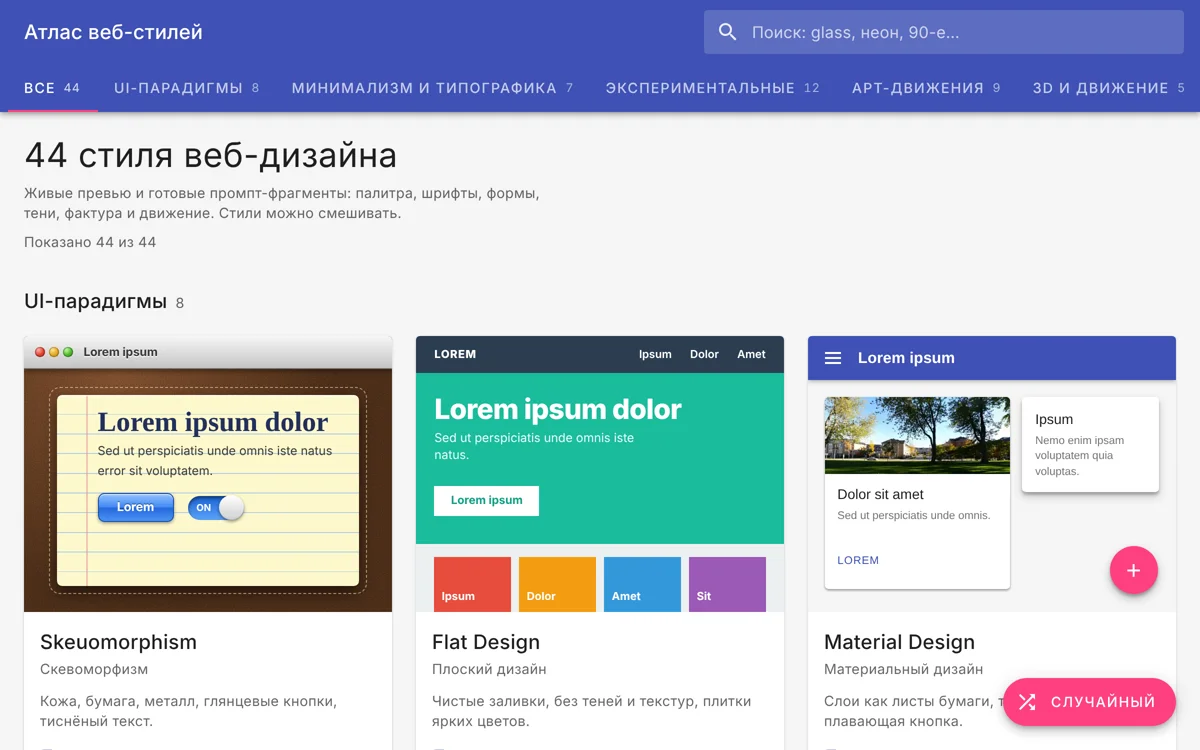
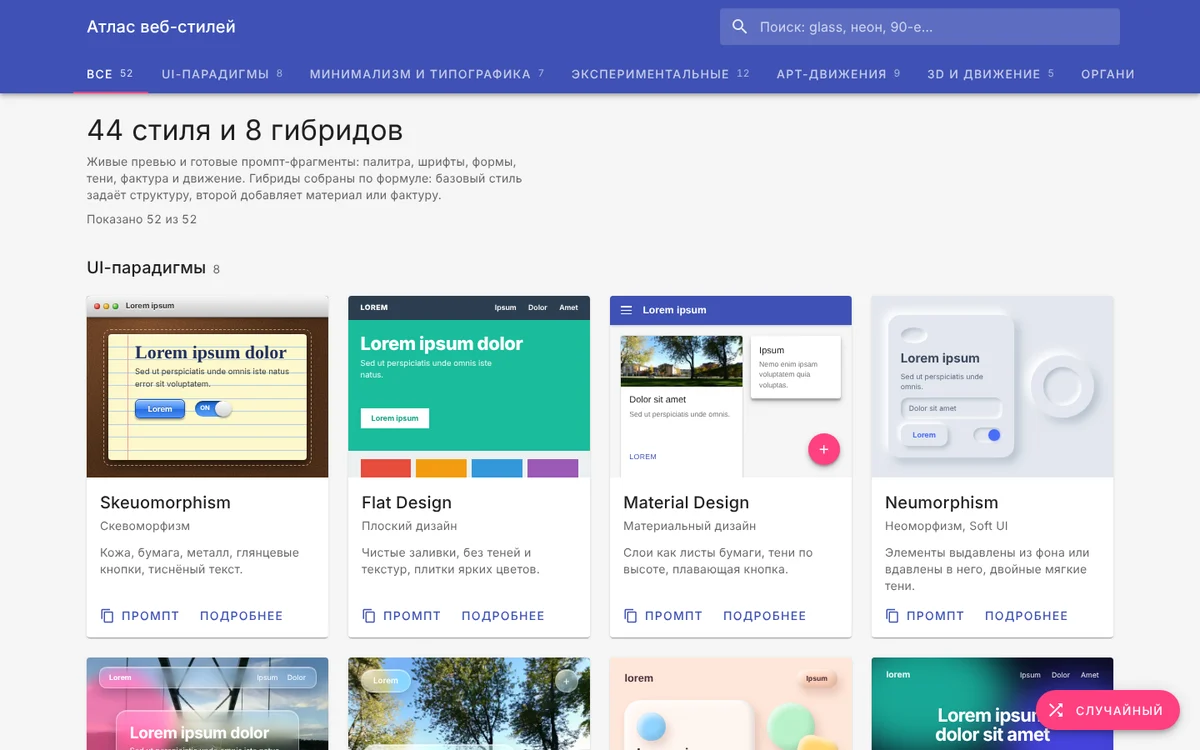
Refresh covers for Skill Index, Web Style Atlas and Roadkick
Claude-Session: https://claude.ai/code/session_01YCgoYJd29CPpN6KyZvRQFE

diff --git a/index.html b/index.html
@@ -89,7 +89,7 @@ canvas#gl.drag{cursor:grabbing}
 
 <script src="https://cdnjs.cloudflare.com/ajax/libs/three.js/r128/three.min.js"></script>
 <script>
-const PROJECTS = [{"name": "AI Risk Simulator", "img": "img/ai-risk.webp", "demo": "https://oz-the-magician.github.io/AI-Product-Risk-Simulator-Decision-Support-System-v3/", "code": "https://github.com/oz-the-magician/AI-Product-Risk-Simulator-Decision-Support-System-v3", "about": {"ru": "Симулятор решений по безопасности AI-продукта. Соберите два набора мер, сравните, что они делают с риском, пользователями и деньгами, и посмотрите, какое решение сколько дало.", "en": "A decision simulator for AI product safety. Build two sets of measures, compare what they do to risk, users and money, and see how much each decision contributed."}, "made": {"ru": "Monte Carlo, значения Шепли, граница Парето, пошаговый тур", "en": "Monte Carlo, Shapley values, Pareto frontier, guided tour"}, "cat": "eng"}, {"name": "Prompt Constructor", "img": "img/prompt-constructor.webp", "demo": "https://oz-the-magician.github.io/prompt-constructor/", "code": "https://github.com/oz-the-magician/prompt-constructor", "about": {"ru": "Конструктор промптов для текста, изображений, видео и кода. Собирает промпт из блоков и по ходу подсказывает, что его ослабляет: размытые слова, противоречия, отрицания, пропуски.", "en": "A prompt builder for text, image, video and code models. It assembles the prompt from blocks and points out what weakens it as you type: vague words, contradictions, negations, gaps."}, "made": {"ru": "один офлайн-файл, без ИИ, интерфейс на чешском, русском и английском", "en": "one offline file, no AI involved, Czech, Russian and English interface"}, "cat": "eng"}, {"name": "Калькулятор ипотеки", "nameEn": "Mortgage Calculator", "img": "img/mortgage.webp", "demo": "https://oz-the-magician.github.io/mortgage_calculator/", "code": "https://github.com/oz-the-magician/mortgage_calculator", "about": {"ru": "Продаёте одну квартиру и покупаете другую: сколько ипотеки понадобится, каким будет платёж и какая доля дохода на него уйдёт.", "en": "Selling one flat and buying another: how big a mortgage you need, what the payment will be and how much of your income it takes."}, "made": {"ru": "аннуитет и дифференцированный платёж, займы, ссылка на расчёт, печать в PDF", "en": "annuity and differentiated payments, extra loans, shareable link, print to PDF"}, "cat": "eng"}, {"name": "Атлас веб-стилей", "nameEn": "Web Style Atlas", "img": "img/web-style-atlas.webp", "demo": "https://oz-the-magician.github.io/web-style-atlas/", "code": "https://github.com/oz-the-magician/web-style-atlas", "about": {"ru": "44 направления веб-дизайна, от скевоморфизма до Liquid Glass. У каждого живое превью мини-сайта и готовый промпт-фрагмент для генератора сайтов.", "en": "44 web design styles, from skeuomorphism to Liquid Glass. Each has a live mini-site preview and a ready prompt fragment for site generators."}, "made": {"ru": "один HTML-файл, превью на CSS, поиск и фильтры по семействам", "en": "one HTML file, CSS-drawn previews, search and filters by family"}, "cat": "refs"}, {"name": "Skill Index", "img": "img/skill-index.webp", "demo": "https://oz-the-magician.github.io/claude-skill-index/", "code": "https://github.com/oz-the-magician/claude-skill-index", "about": {"ru": "Каталог скиллов Claude, которые я проверил по коду и лицензии и установил. Каждая карточка ведёт в репозиторий автора.", "en": "A catalogue of Claude skills I reviewed for code and licence, then installed. Every card links to the author’s repository."}, "made": {"ru": "карточки в YAML, сборка и проверка через GitHub Actions, RU и EN", "en": "YAML cards, built and validated by GitHub Actions, RU and EN"}, "cat": "refs"}, {"name": "Effects Atlas", "img": "img/effects-atlas.webp", "demo": "https://oz-the-magician.github.io/effects-atlas/", "code": "https://github.com/oz-the-magician/effects-atlas", "about": {"ru": "37 моушн- и интерактивных эффектов для обложек и страниц портфолио: типографика, изображения, навигация, 3D-фоны. У каждого живое превью и готовый промпт, чтобы собрать такой же.", "en": "37 motion and interaction effects for site covers and portfolio pages: type, images, navigation, 3D backgrounds. Each has a live preview and a ready prompt to build your own."}, "made": {"ru": "один HTML-файл, WebGL-шейдеры, Canvas, three.js, GSAP", "en": "one HTML file, WebGL shaders, Canvas, three.js, GSAP"}, "cat": "refs"}, {"name": "Roadkick", "img": "img/roadkick.webp", "demo": "https://oz-the-magician.github.io/roadkick/", "code": "https://github.com/oz-the-magician/roadkick", "about": {"ru": "Пиксельная мотогонка в духе Road Rash: пять трасс, соперники с характером, пинки, полиция за превышение скорости, прыжки и сальто.", "en": "A pixel-art motorcycle racer in the spirit of Road Rash: five tracks, rivals with character, kicks, police chases for speeding, jumps and flips."}, "made": {"ru": "псевдо-3D на canvas, вся графика и чиптюн-музыка генерируются кодом", "en": "pseudo-3D on canvas, all pixel art and the chiptune soundtrack generated in code"}, "cat": "games"}, {"name": "Blaster Arena", "img": "img/blaster-arena.webp", "demo": "https://oz-the-magician.github.io/blaster-arena/", "code": "https://github.com/oz-the-magician/blaster-arena", "about": {"ru": "Браузерный 3D-шутер на арене: волны ботов, гигант-босс, 18 видов оружия, карточки улучшений и разрушаемые стены. Играется на компьютере и на телефоне.", "en": "A browser 3D arena shooter: waves of bots, a giant boss, 18 weapons, upgrade cards and destructible walls. Plays on desktop and on phones."}, "made": {"ru": "Three.js, процедурные арены, редактор карт", "en": "Three.js, procedural arenas, map editor"}, "cat": "games"}, {"name": "Cosmic Melody", "img": "img/cosmic-melody.webp", "demo": "https://oz-the-magician.github.io/cosmic-melody/", "code": "https://github.com/oz-the-magician/cosmic-melody", "about": {"ru": "Превращает дату в минуту музыки. Положение Солнца и фаза Луны задают лад, темп и гармонию, а играют живые оркестровые сэмплы.", "en": "Turns a date into a minute of music. The position of the Sun and the phase of the Moon set the key, tempo and harmony, played on real orchestral samples."}, "made": {"ru": "Web Audio, астрономические расчёты, четыре ансамбля", "en": "Web Audio, astronomy maths, four ensembles"}, "cat": "sound"}, {"name": "Solar Vortex", "img": "img/solar-vortex.webp", "demo": "https://oz-the-magician.github.io/solar-vortex/", "code": "https://github.com/oz-the-magician/solar-vortex", "about": {"ru": "Солнце летит сквозь Галактику, а планеты чертят вокруг него спирали. Можно отдаляться шаг за шагом: от орбит планет до Ланиакеи и края наблюдаемой Вселенной.", "en": "The Sun flies through the Galaxy while the planets trace spirals around it. Zoom out step by step, from planetary orbits to Laniakea and the edge of the observable universe."}, "made": {"ru": "Canvas 2D и Web Audio без библиотек, реальные расстояния, RU · EN · CS", "en": "Canvas 2D and Web Audio, no libraries, real distances, RU · EN · CS"}, "cat": "viz"}];
+const PROJECTS = [{"name": "AI Risk Simulator", "img": "img/ai-risk.webp", "demo": "https://oz-the-magician.github.io/AI-Product-Risk-Simulator-Decision-Support-System-v3/", "code": "https://github.com/oz-the-magician/AI-Product-Risk-Simulator-Decision-Support-System-v3", "about": {"ru": "Симулятор решений по безопасности AI-продукта. Соберите два набора мер, сравните, что они делают с риском, пользователями и деньгами, и посмотрите, какое решение сколько дало.", "en": "A decision simulator for AI product safety. Build two sets of measures, compare what they do to risk, users and money, and see how much each decision contributed."}, "made": {"ru": "Monte Carlo, значения Шепли, граница Парето, пошаговый тур", "en": "Monte Carlo, Shapley values, Pareto frontier, guided tour"}, "cat": "eng"}, {"name": "Prompt Constructor", "img": "img/prompt-constructor.webp", "demo": "https://oz-the-magician.github.io/prompt-constructor/", "code": "https://github.com/oz-the-magician/prompt-constructor", "about": {"ru": "Конструктор промптов для текста, изображений, видео и кода. Собирает промпт из блоков и по ходу подсказывает, что его ослабляет: размытые слова, противоречия, отрицания, пропуски.", "en": "A prompt builder for text, image, video and code models. It assembles the prompt from blocks and points out what weakens it as you type: vague words, contradictions, negations, gaps."}, "made": {"ru": "один офлайн-файл, без ИИ, интерфейс на чешском, русском и английском", "en": "one offline file, no AI involved, Czech, Russian and English interface"}, "cat": "eng"}, {"name": "Калькулятор ипотеки", "nameEn": "Mortgage Calculator", "img": "img/mortgage.webp", "demo": "https://oz-the-magician.github.io/mortgage_calculator/", "code": "https://github.com/oz-the-magician/mortgage_calculator", "about": {"ru": "Продаёте одну квартиру и покупаете другую: сколько ипотеки понадобится, каким будет платёж и какая доля дохода на него уйдёт.", "en": "Selling one flat and buying another: how big a mortgage you need, what the payment will be and how much of your income it takes."}, "made": {"ru": "аннуитет и дифференцированный платёж, займы, ссылка на расчёт, печать в PDF", "en": "annuity and differentiated payments, extra loans, shareable link, print to PDF"}, "cat": "eng"}, {"name": "Атлас веб-стилей", "nameEn": "Web Style Atlas", "img": "img/web-style-atlas.webp", "demo": "https://oz-the-magician.github.io/web-style-atlas/", "code": "https://github.com/oz-the-magician/web-style-atlas", "about": {"ru": "44 направления веб-дизайна и 8 гибридов, от скевоморфизма до Liquid Glass. У каждого живое превью мини-сайта и готовый промпт-фрагмент для генератора сайтов.", "en": "44 web design styles and 8 hybrids, from skeuomorphism to Liquid Glass. Each has a live mini-site preview and a ready prompt fragment for site generators."}, "made": {"ru": "один HTML-файл, превью на CSS, поиск и фильтры по семействам", "en": "one HTML file, CSS-drawn previews, search and filters by family"}, "cat": "refs"}, {"name": "Skill Index", "img": "img/skill-index.webp", "demo": "https://oz-the-magician.github.io/claude-skill-index/", "code": "https://github.com/oz-the-magician/claude-skill-index", "about": {"ru": "Каталог скиллов Claude, которые я проверил по коду и лицензии и установил. Каждая карточка ведёт в репозиторий автора.", "en": "A catalogue of Claude skills I reviewed for code and licence, then installed. Every card links to the author’s repository."}, "made": {"ru": "карточки в YAML, сборка и проверка через GitHub Actions, RU и EN", "en": "YAML cards, built and validated by GitHub Actions, RU and EN"}, "cat": "refs"}, {"name": "Effects Atlas", "img": "img/effects-atlas.webp", "demo": "https://oz-the-magician.github.io/effects-atlas/", "code": "https://github.com/oz-the-magician/effects-atlas", "about": {"ru": "37 моушн- и интерактивных эффектов для обложек и страниц портфолио: типографика, изображения, навигация, 3D-фоны. У каждого живое превью и готовый промпт, чтобы собрать такой же.", "en": "37 motion and interaction effects for site covers and portfolio pages: type, images, navigation, 3D backgrounds. Each has a live preview and a ready prompt to build your own."}, "made": {"ru": "один HTML-файл, WebGL-шейдеры, Canvas, three.js, GSAP", "en": "one HTML file, WebGL shaders, Canvas, three.js, GSAP"}, "cat": "refs"}, {"name": "Roadkick", "img": "img/roadkick.webp", "demo": "https://oz-the-magician.github.io/roadkick/", "code": "https://github.com/oz-the-magician/roadkick", "about": {"ru": "Пиксельная мотогонка в духе Road Rash: пять трасс, соперники с характером, пинки, полиция за превышение скорости, прыжки и сальто.", "en": "A pixel-art motorcycle racer in the spirit of Road Rash: five tracks, rivals with character, kicks, police chases for speeding, jumps and flips."}, "made": {"ru": "псевдо-3D на canvas, вся графика и чиптюн-музыка генерируются кодом", "en": "pseudo-3D on canvas, all pixel art and the chiptune soundtrack generated in code"}, "cat": "games"}, {"name": "Blaster Arena", "img": "img/blaster-arena.webp", "demo": "https://oz-the-magician.github.io/blaster-arena/", "code": "https://github.com/oz-the-magician/blaster-arena", "about": {"ru": "Браузерный 3D-шутер на арене: волны ботов, гигант-босс, 18 видов оружия, карточки улучшений и разрушаемые стены. Играется на компьютере и на телефоне.", "en": "A browser 3D arena shooter: waves of bots, a giant boss, 18 weapons, upgrade cards and destructible walls. Plays on desktop and on phones."}, "made": {"ru": "Three.js, процедурные арены, редактор карт", "en": "Three.js, procedural arenas, map editor"}, "cat": "games"}, {"name": "Cosmic Melody", "img": "img/cosmic-melody.webp", "demo": "https://oz-the-magician.github.io/cosmic-melody/", "code": "https://github.com/oz-the-magician/cosmic-melody", "about": {"ru": "Превращает дату в минуту музыки. Положение Солнца и фаза Луны задают лад, темп и гармонию, а играют живые оркестровые сэмплы.", "en": "Turns a date into a minute of music. The position of the Sun and the phase of the Moon set the key, tempo and harmony, played on real orchestral samples."}, "made": {"ru": "Web Audio, астрономические расчёты, четыре ансамбля", "en": "Web Audio, astronomy maths, four ensembles"}, "cat": "sound"}, {"name": "Solar Vortex", "img": "img/solar-vortex.webp", "demo": "https://oz-the-magician.github.io/solar-vortex/", "code": "https://github.com/oz-the-magician/solar-vortex", "about": {"ru": "Солнце летит сквозь Галактику, а планеты чертят вокруг него спирали. Можно отдаляться шаг за шагом: от орбит планет до Ланиакеи и края наблюдаемой Вселенной.", "en": "The Sun flies through the Galaxy while the planets trace spirals around it. Zoom out step by step, from planetary orbits to Laniakea and the edge of the observable universe."}, "made": {"ru": "Canvas 2D и Web Audio без библиотек, реальные расстояния, RU · EN · CS", "en": "Canvas 2D and Web Audio, no libraries, real distances, RU · EN · CS"}, "cat": "viz"}];
 const CATS = [
   {id:'eng',   ru:'Инженерия',    en:'Engineering', c:'#7FB7FF', pos:[-6.2, 1.8, 0]},
   {id:'refs',  ru:'Справочники',  en:'References',  c:'#9FE3CF', pos:[ 5.8, 2.6,-2.2]},

diff --git a/projects.js b/projects.js
@@ -63,8 +63,8 @@ export const PROJECTS = [
     demo: 'https://oz-the-magician.github.io/web-style-atlas/',
     code: 'https://github.com/oz-the-magician/web-style-atlas',
     about: {
-      ru: '44 направления веб-дизайна, от скевоморфизма до Liquid Glass. У каждого живое превью мини-сайта и готовый промпт-фрагмент для генератора сайтов.',
-      en: '44 web design styles, from skeuomorphism to Liquid Glass. Each has a live mini-site preview and a ready prompt fragment for site generators.'
+      ru: '44 направления веб-дизайна и 8 гибридов, от скевоморфизма до Liquid Glass. У каждого живое превью мини-сайта и готовый промпт-фрагмент для генератора сайтов.',
+      en: '44 web design styles and 8 hybrids, from skeuomorphism to Liquid Glass. Each has a live mini-site preview and a ready prompt fragment for site generators.'
     },
     made: {
       ru: 'один HTML-файл, превью на CSS, поиск и фильтры по семействам',
